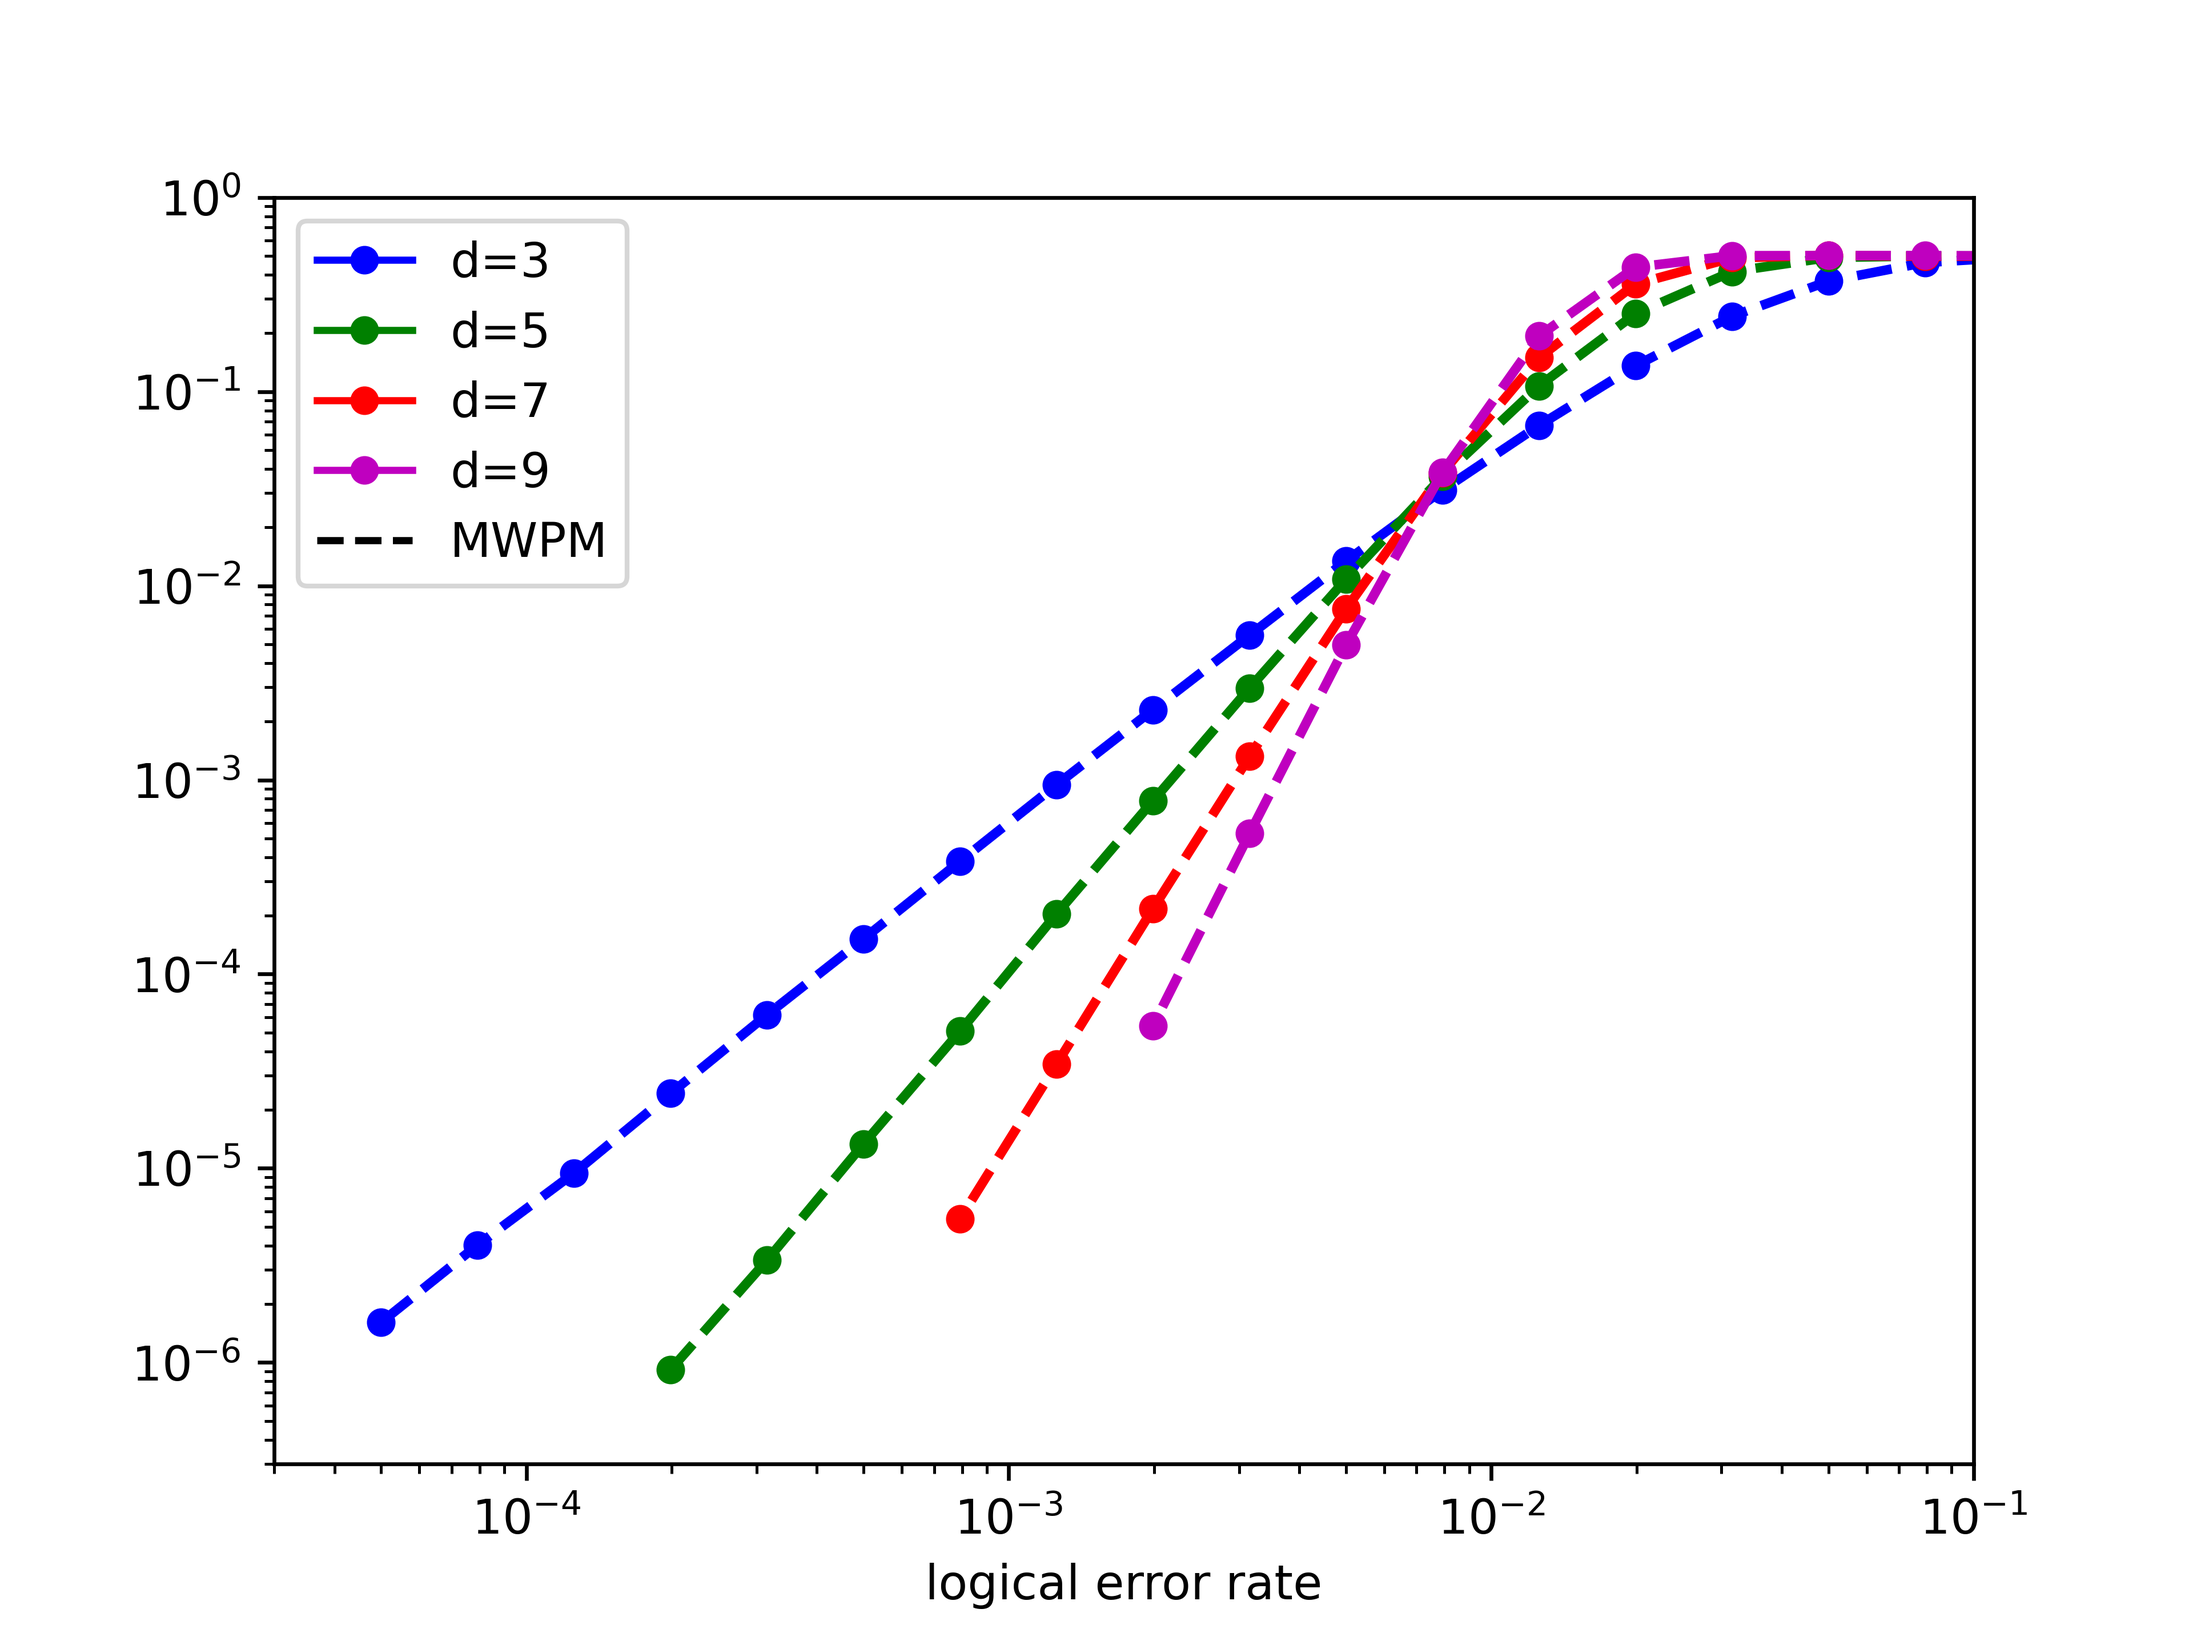
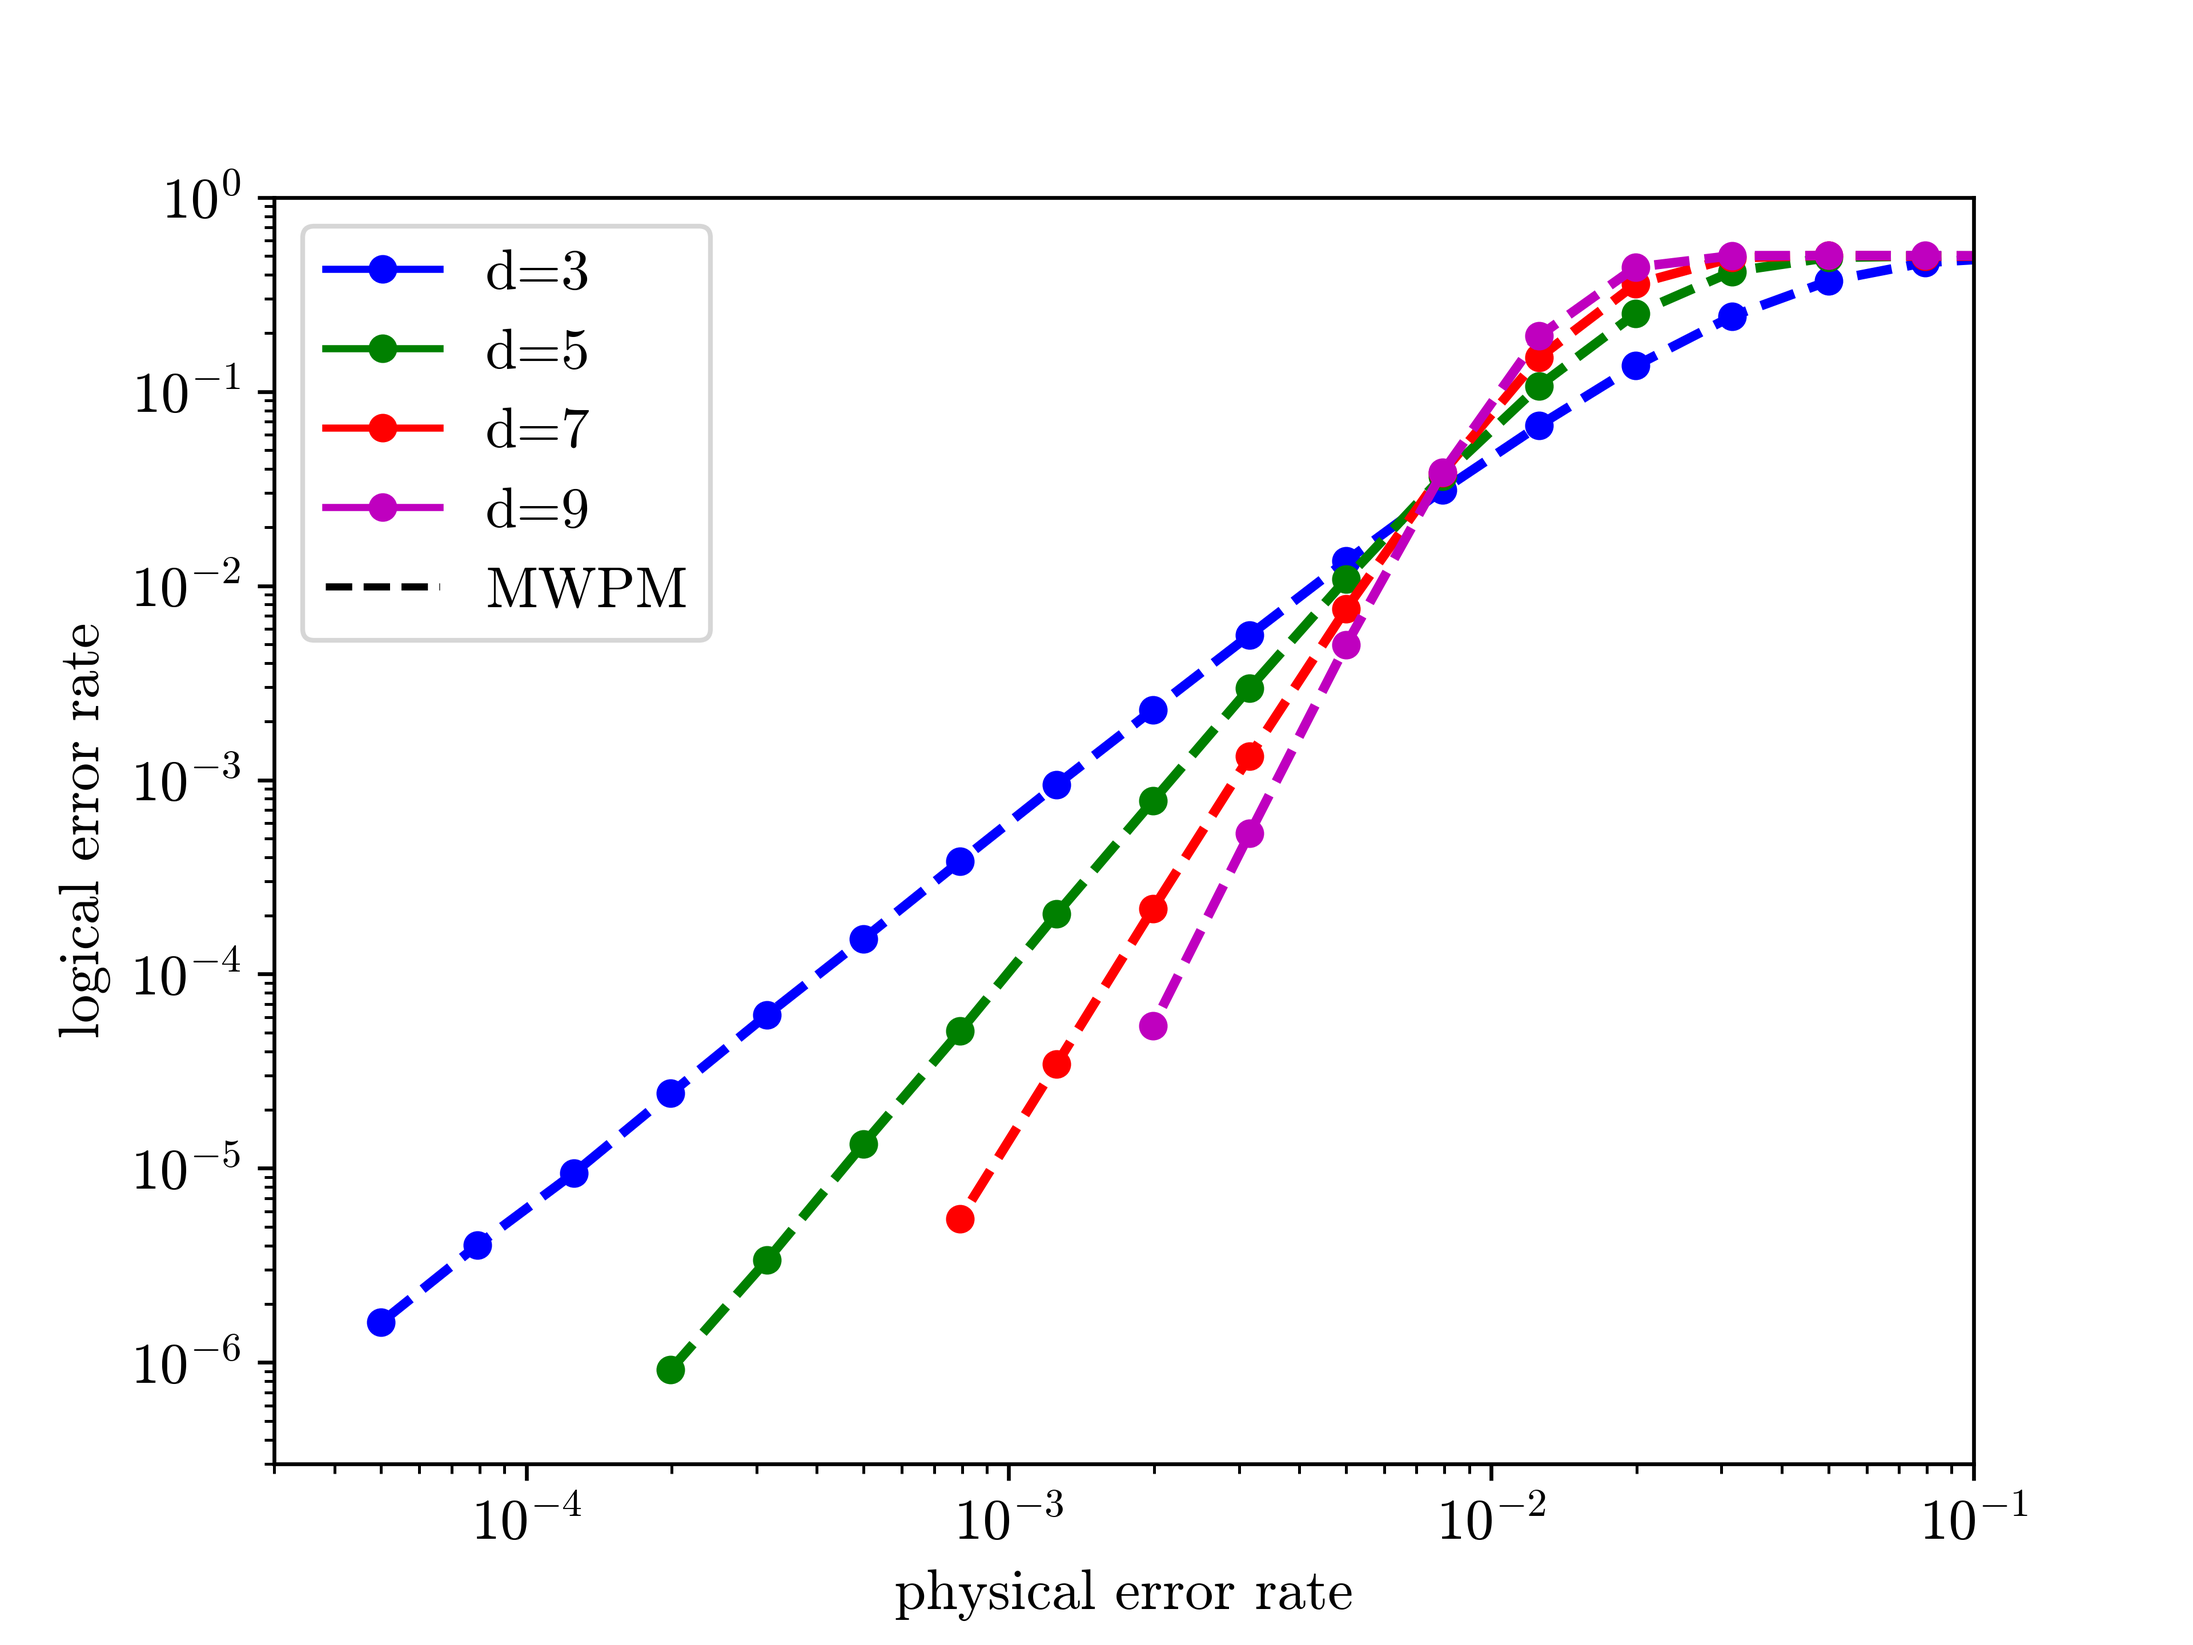
update figures

diff --git a/evaluation/xy_code_capacity/tailored_xy_inf_bias_code_capacity.py b/evaluation/xy_code_capacity/tailored_xy_inf_bias_code_capacity.py
@@ -4,6 +4,18 @@ import matplotlib
 import numpy as np
 from scipy.stats import binom
 
+# Font Size
+matplotlib.rcParams['font.size'] = 12
+matplotlib.rcParams['legend.fontsize'] = 'medium'
+matplotlib.rcParams['figure.titlesize'] = 'medium'
+
+# Font Type = Computer Modern Serif (LaTeX)
+matplotlib.rcParams['font.family'] = 'serif'
+matplotlib.rcParams['font.serif'] = 'cmr10'
+matplotlib.rcParams['mathtext.fontset'] = 'cm'
+matplotlib.rcParams['axes.unicode_minus'] = False
+matplotlib.rcParams['axes.formatter.use_mathtext'] = True
+
 
 def read_data(filename):
     ps = []
@@ -60,7 +72,7 @@ for (has_hyperion, draw_std) in [(False, False), (True, False), (True, True)]:
     plt.xlim(0.09, 0.55)
     plt.ylim(3e-7, 1)
     plt.xlabel("physical error rate")
-    plt.xlabel("logical error rate")
+    plt.ylabel("logical error rate")
 
     legends = []
     labels = []
@@ -84,4 +96,4 @@ for (has_hyperion, draw_std) in [(False, False), (True, False), (True, True)]:
                   "0.1", "0.2", "0.3", "0.4", "0.5"], minor=True)
 
     plt.savefig(
-        f"rotated_planar_circuit_level_{(2 if draw_std else 1) if has_hyperion else 0}.png", dpi=600)
+        f"tailored_xy_inf_bias_code_capacity_{(2 if draw_std else 1) if has_hyperion else 0}.png", dpi=600)

diff --git a/evaluation/circuit_level/rotated_planar_circuit_level.py b/evaluation/circuit_level/rotated_planar_circuit_level.py
@@ -3,6 +3,18 @@ from matplotlib.lines import Line2D
 import matplotlib
 import numpy as np
 
+# Font Size
+matplotlib.rcParams['font.size'] = 12
+matplotlib.rcParams['legend.fontsize'] = 'medium'
+matplotlib.rcParams['figure.titlesize'] = 'medium'
+
+# Font Type = Computer Modern Serif (LaTeX)
+matplotlib.rcParams['font.family'] = 'serif'
+matplotlib.rcParams['font.serif'] = 'cmr10'
+matplotlib.rcParams['mathtext.fontset'] = 'cm'
+matplotlib.rcParams['axes.unicode_minus'] = False
+matplotlib.rcParams['axes.formatter.use_mathtext'] = True
+
 
 def read_data(filename):
     ps = []
@@ -46,7 +58,7 @@ for has_hyperion in [False, True]:
     plt.xlim(3e-5, 0.1)
     plt.ylim(3e-7, 1)
     plt.xlabel("physical error rate")
-    plt.xlabel("logical error rate")
+    plt.ylabel("logical error rate")
 
     legends = []
     labels = []
